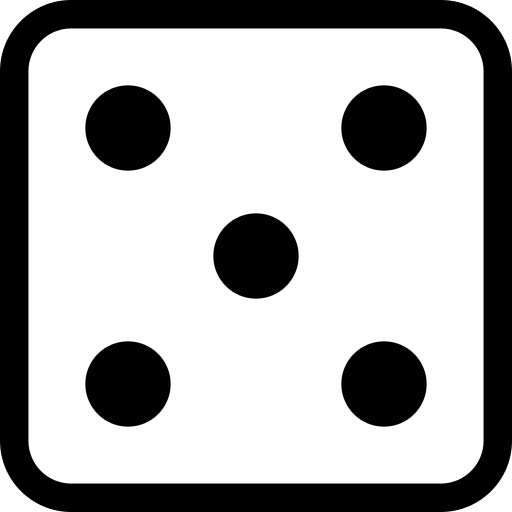
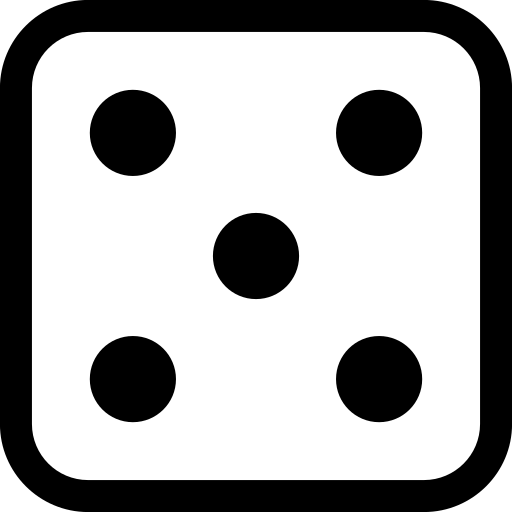
09.10

diff --git a/GUI/gui09_pig.py b/GUI/gui09_pig.py
@@ -80,10 +80,10 @@ class MainWindow(QMainWindow):
     def __init__(self):
         super().__init__()
 
-        db = QFontDatabase()
-        families = db.families() 
-        for f in families:
-            print(f)
+        # db = QFontDatabase()
+        # families = db.families() 
+        # for f in families:
+        #     print(f)
 
         self.numb_of_players = 1
         self.players_points = []
@@ -136,12 +136,8 @@ class MainWindow(QMainWindow):
         self.dice_button.setIcon(QIcon("python/modules/dice00.png"))
         self.dice_button.setIconSize(QSize(200,200))
         self.dice_button.setCursor(Qt.PointingHandCursor)
-        self.dice_button.setStyleSheet(f"background-color: {button_color};" 
-                                       f"color: {font_color};" 
-                                       "border-radius: 10px;" 
-                                       "padding: 15px;"                                        
-                                       "font-weight: bold;" 
-                                       "margin: 0px 410px")
+        self.dice_button.setStyleSheet("background-color: none;" 
+                                       "border-radius: 10px;")
         self.main_layout.addWidget(self.dice_button)
 
         self.pass_button = QPushButton("Pass the turn", self)
@@ -203,7 +199,7 @@ class MainWindow(QMainWindow):
         else:
             self.result_label.setText(" ")
             restult = random.randint(1, 6)
-            self.dice_button.setText(f"{dice_art[restult]}")        
+            self.dice_button.setIcon(QIcon(f"python/modules/dice0{restult}.png"))        
             item = self.points_box.itemAt(self.player_id).widget()
             if restult > 1:
                 self.players_points[self.player_id] += restult
@@ -224,7 +220,7 @@ class MainWindow(QMainWindow):
         self.player_id += 1
         if self.player_id > self.numb_of_players - 1:
             self.player_id = 0
-        self.dice_button.setText(f"{dice_art[0]}")
+        self.dice_button.setIcon(QIcon("python/modules/dice00.png"))
         self.turn_label.setText(f"Player {self.player_id + 1} turn to roll")
         
         
